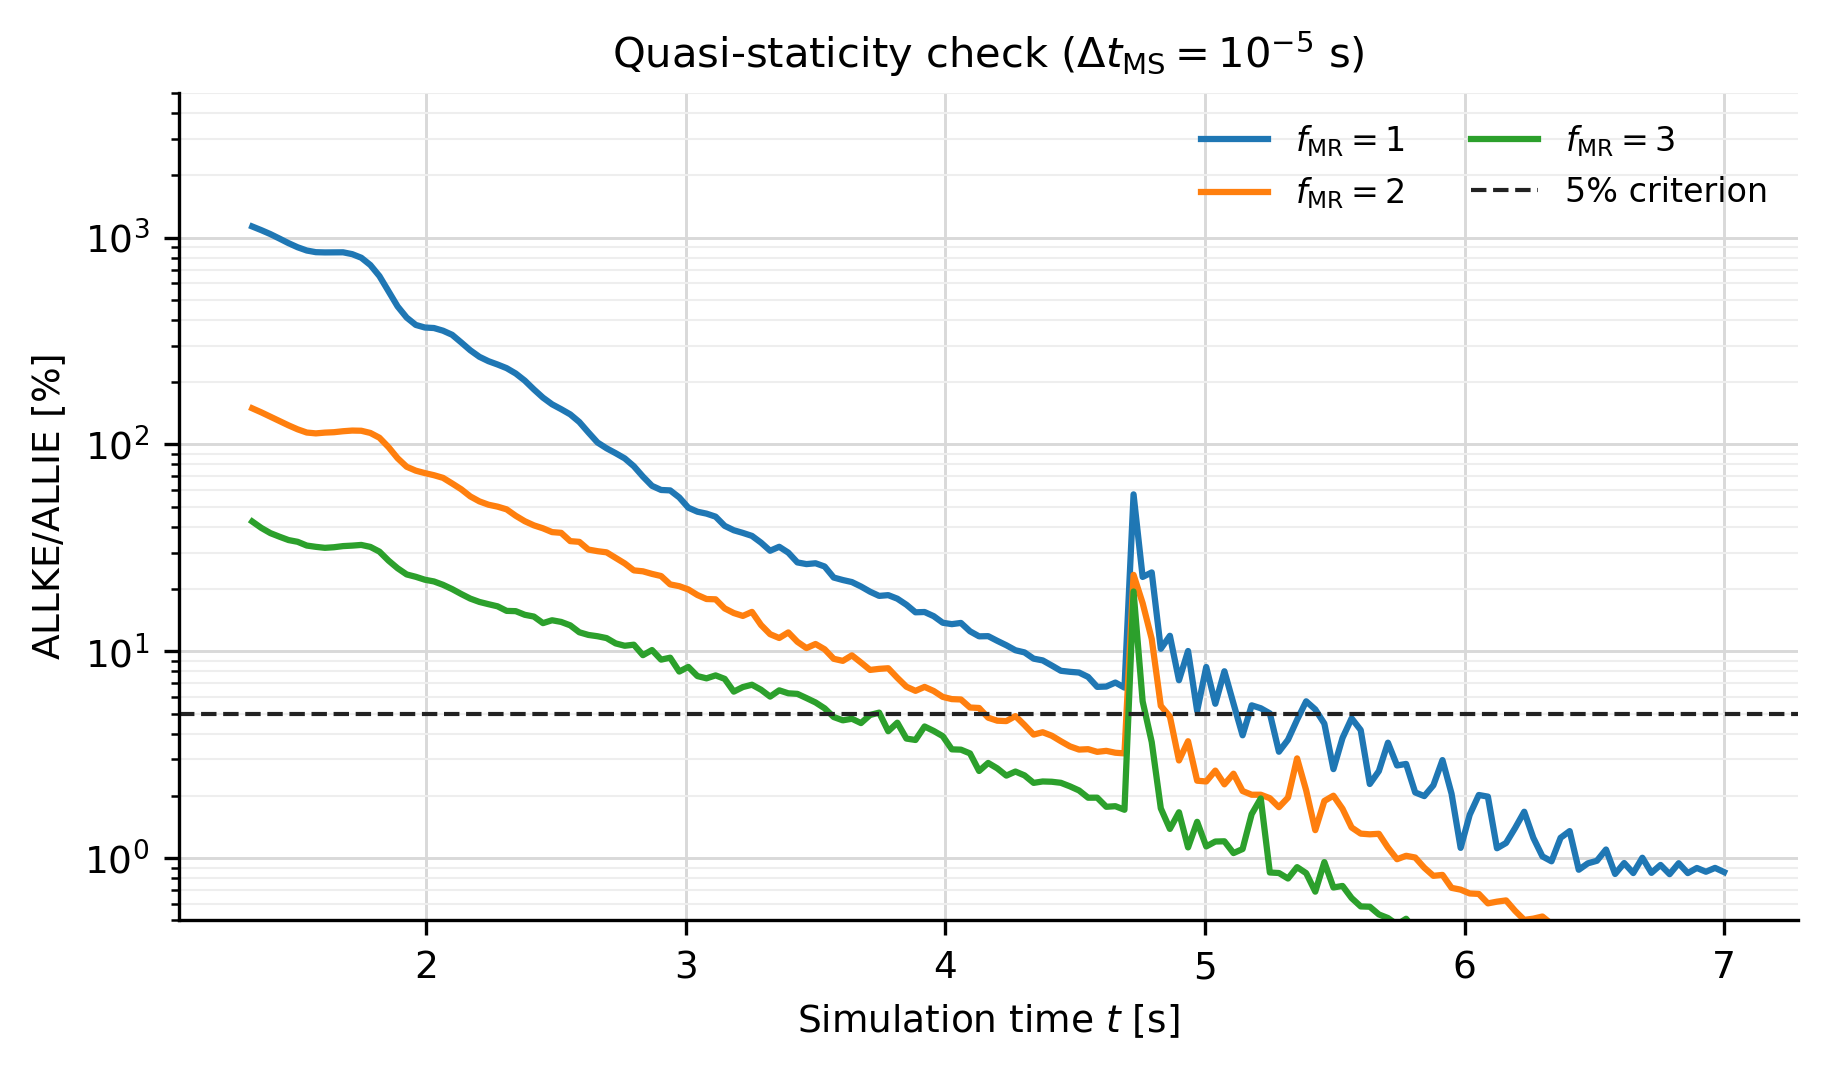
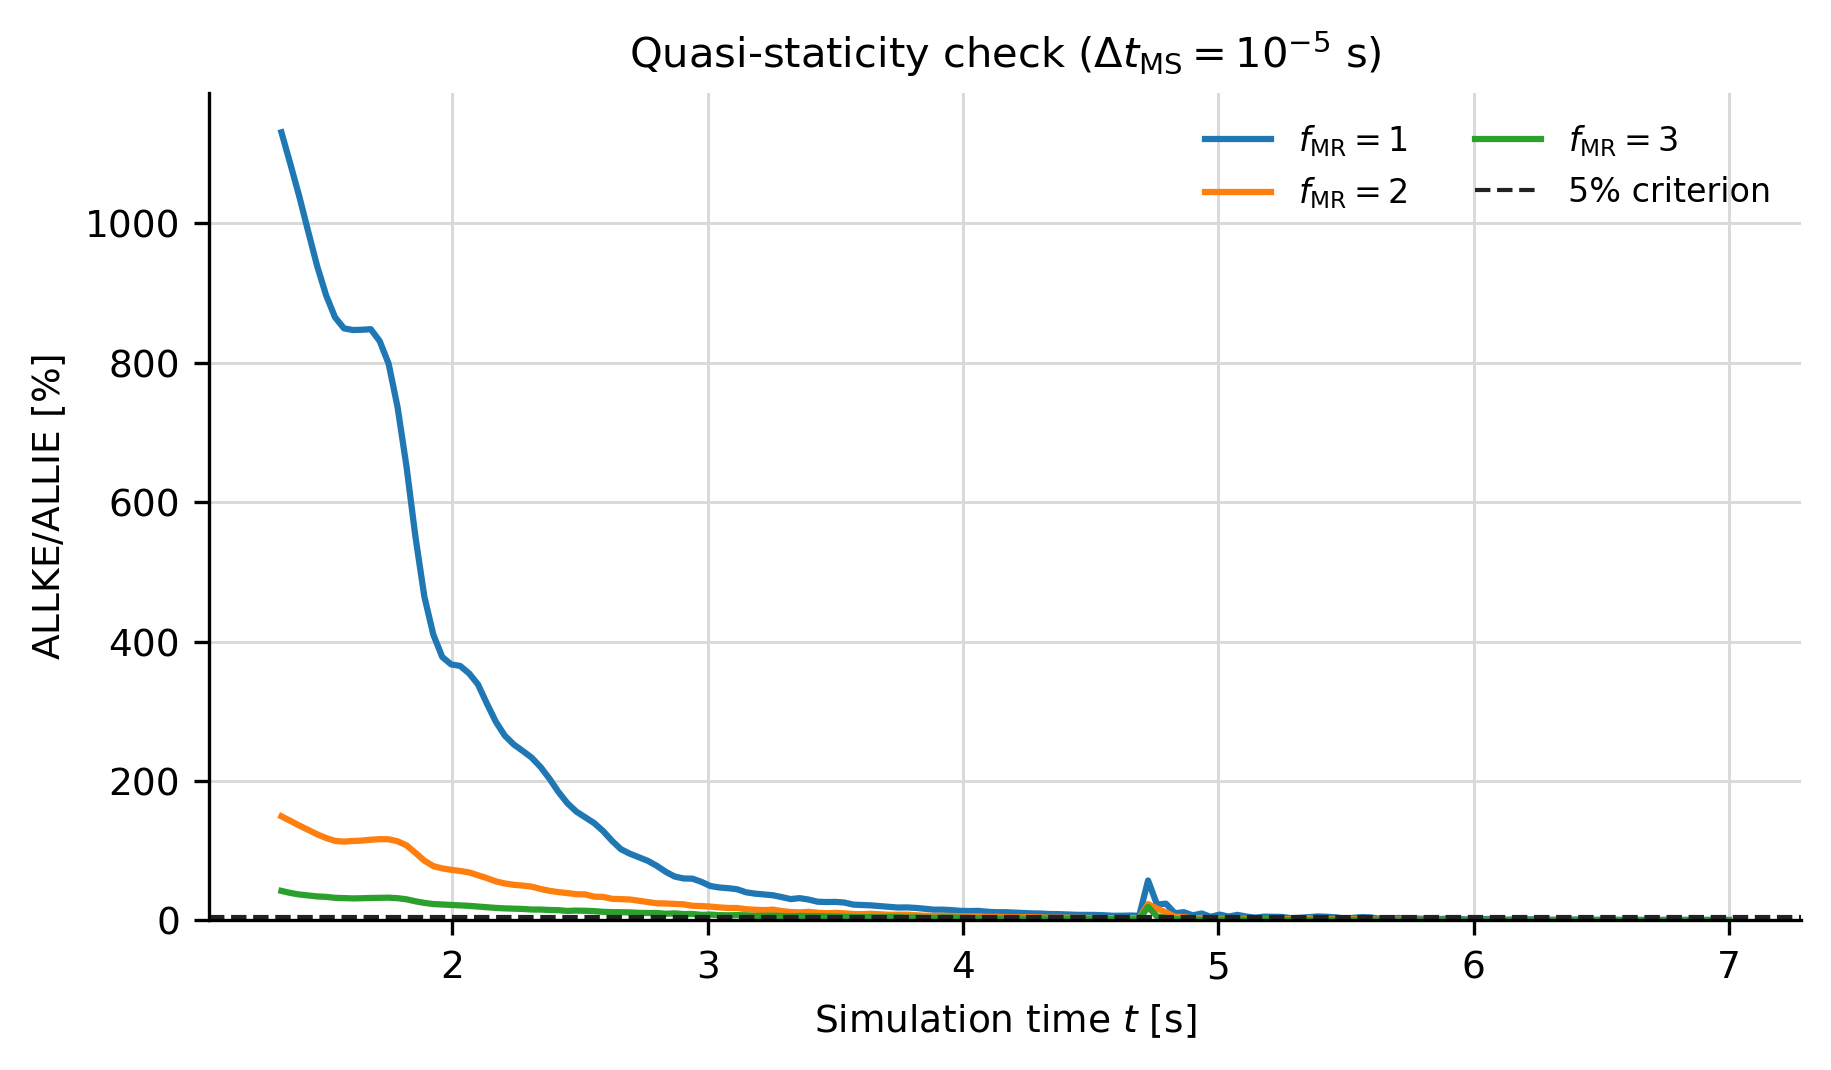
Use linear scale for MS MR energy plots

diff --git a/report/chapters/results.tex b/report/chapters/results.tex
@@ -511,7 +511,7 @@ but their energy ratios are too high for a quasi-static production setting.
     \end{subfigure}
     \caption[Mass-scaling sensitivity on the Nakazima W100 reference case]{Mass-scaling sensitivity on the Nakazima W100 reference case at
     $f_\mathrm{MR}=2$. The energy ratio is plotted against simulation time on a
-    logarithmic scale, with the first \SI{5}{\percent} of punch travel omitted
+    linear scale, with the first \SI{5}{\percent} of punch travel omitted
     because $\mathrm{ALLIE}$ is close to zero.}
     \label{fig:ms_sweep_results}
 \end{figure}
@@ -556,8 +556,8 @@ mesh-refinement sweep repeated at the accepted mass-scaling target.
     \end{subfigure}
     \caption[Mesh-refinement sensitivity on the Nakazima W100 reference case]{Mesh-refinement sensitivity on the Nakazima W100 reference case at
     $\Delta t_\mathrm{MS}=\SI{1e-5}{\second}$. The energy ratio is plotted
-    against simulation time and uses the same logarithmic scale and
-    initial-travel omission as
+    against simulation time on a linear scale and uses the same initial-travel
+    omission as
     Figure~\ref{fig:ms_sweep_results}.}
     \label{fig:mr_sweep_results}
 \end{figure}
@@ -575,7 +575,11 @@ $\Delta t_\mathrm{MS}=\SI{1e-6}{\second}$ as the only tested target satisfying
 the \SI{5}{\percent} energy criterion. The mesh-refinement sweep at
 $\Delta t_\mathrm{MS}=\SI{1e-5}{\second}$ is useful as a discretisation
 diagnostic, but it should not be used alone to select production settings
-because the quasi-static criterion is violated.
+because the quasi-static criterion is violated. The next confirmation sweep
+should therefore repeat the mesh-refinement comparison at
+$\Delta t_\mathrm{MS}=\SI{1e-6}{\second}$, preferably for
+$f_\mathrm{MR}=1$, $2$, and $4$, so that the selected production mesh is judged
+under the same quasi-static setting that will be used for the final simulations.
 
 \subsection{Current Numerical Output Status}
 \label{sec:numerical_output_status}

diff --git a/report/img/make_ms_mr_plots.py b/report/img/make_ms_mr_plots.py
@@ -146,17 +146,16 @@ def _plot_strain_path(jobs: list[Job], stem: str, title: str) -> None:
 def _plot_energy(jobs: list[Job], stem: str, title: str) -> None:
     fig, ax = plt.subplots(figsize=(6.2, 3.7))
     cmap = plt.get_cmap("tab10")
-    max_u3 = 0.0
+    max_ratio = 0.0
     for idx, job in enumerate(jobs):
         curve = _energy_curve(job)
-        max_u3 = max(max_u3, float(np.nanmax(curve["U3_mm"])))
         curve = curve.replace([np.inf, -np.inf], np.nan).dropna()
-        cutoff = 0.05 * max_u3
+        cutoff = 0.05 * float(np.nanmax(curve["U3_mm"]))
         curve = curve[curve["U3_mm"] >= cutoff]
+        max_ratio = max(max_ratio, float(np.nanmax(curve["ke_ratio_pct"])))
         ax.plot(curve["time_s"], curve["ke_ratio_pct"], label=job.label, color=cmap(idx), linewidth=1.5)
     ax.axhline(5.0, color="#222222", linestyle="--", linewidth=1.0, label="5% criterion")
-    ax.set_yscale("log")
-    ax.set_ylim(0.5, 5000)
+    ax.set_ylim(0.0, max(10.0, 1.05 * max_ratio))
     _style_axes(ax, r"Simulation time $t$ [s]", r"$\mathrm{ALLKE}/\mathrm{ALLIE}$ [%]")
     ax.set_title(title)
     ax.legend(frameon=False, fontsize=8, ncol=2)
